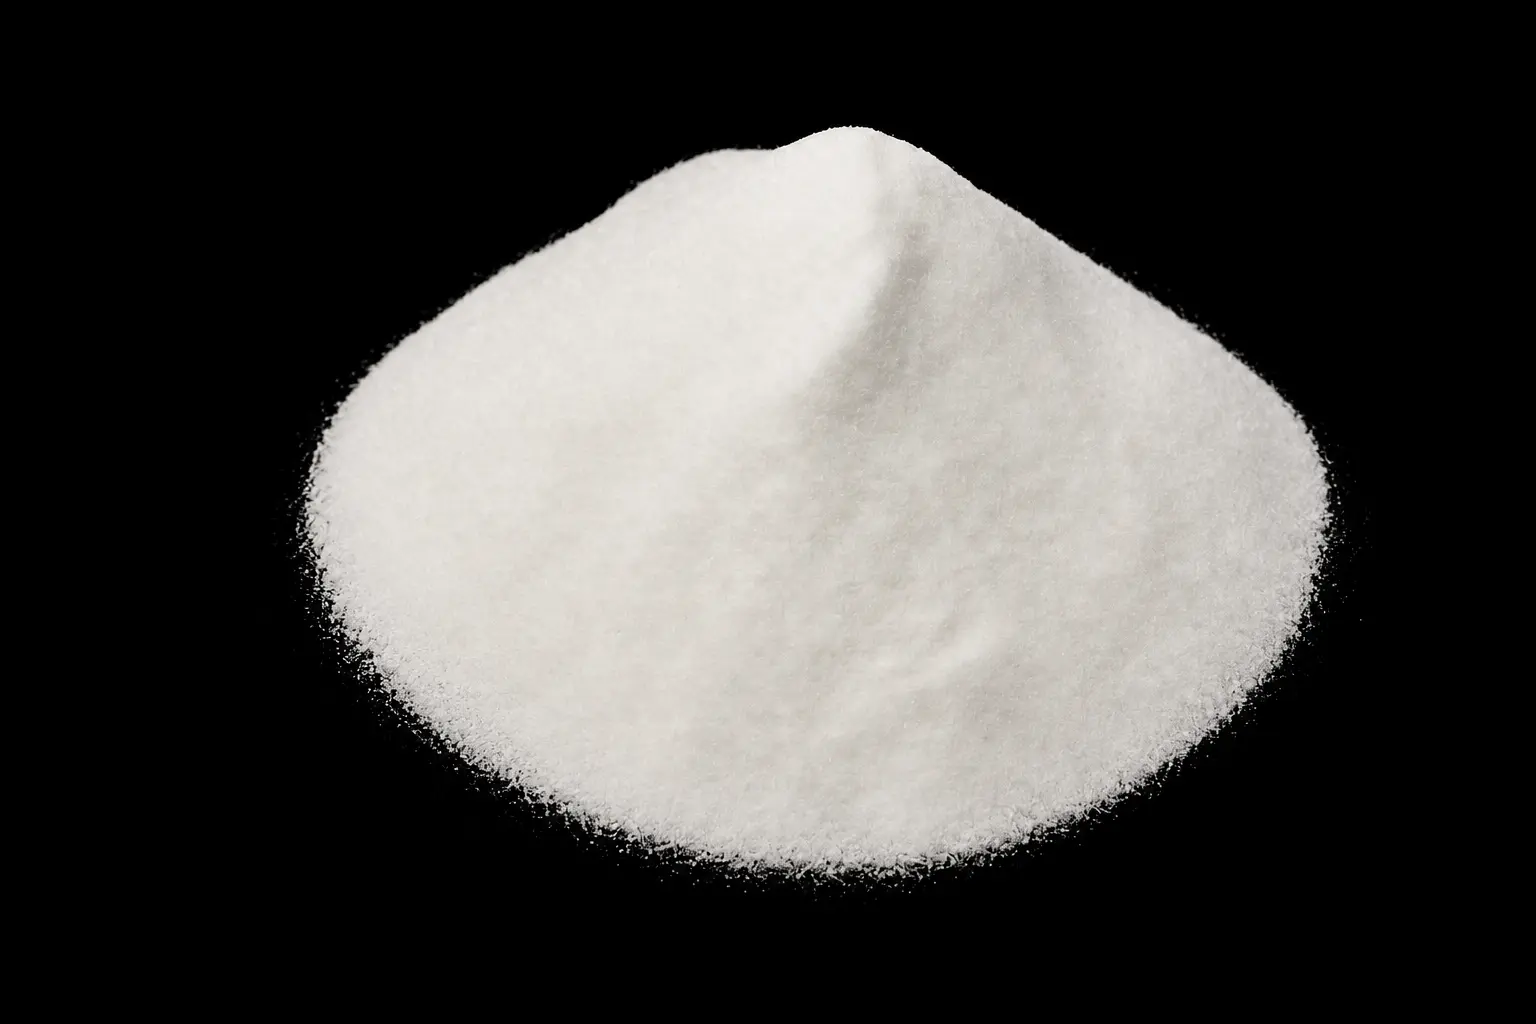
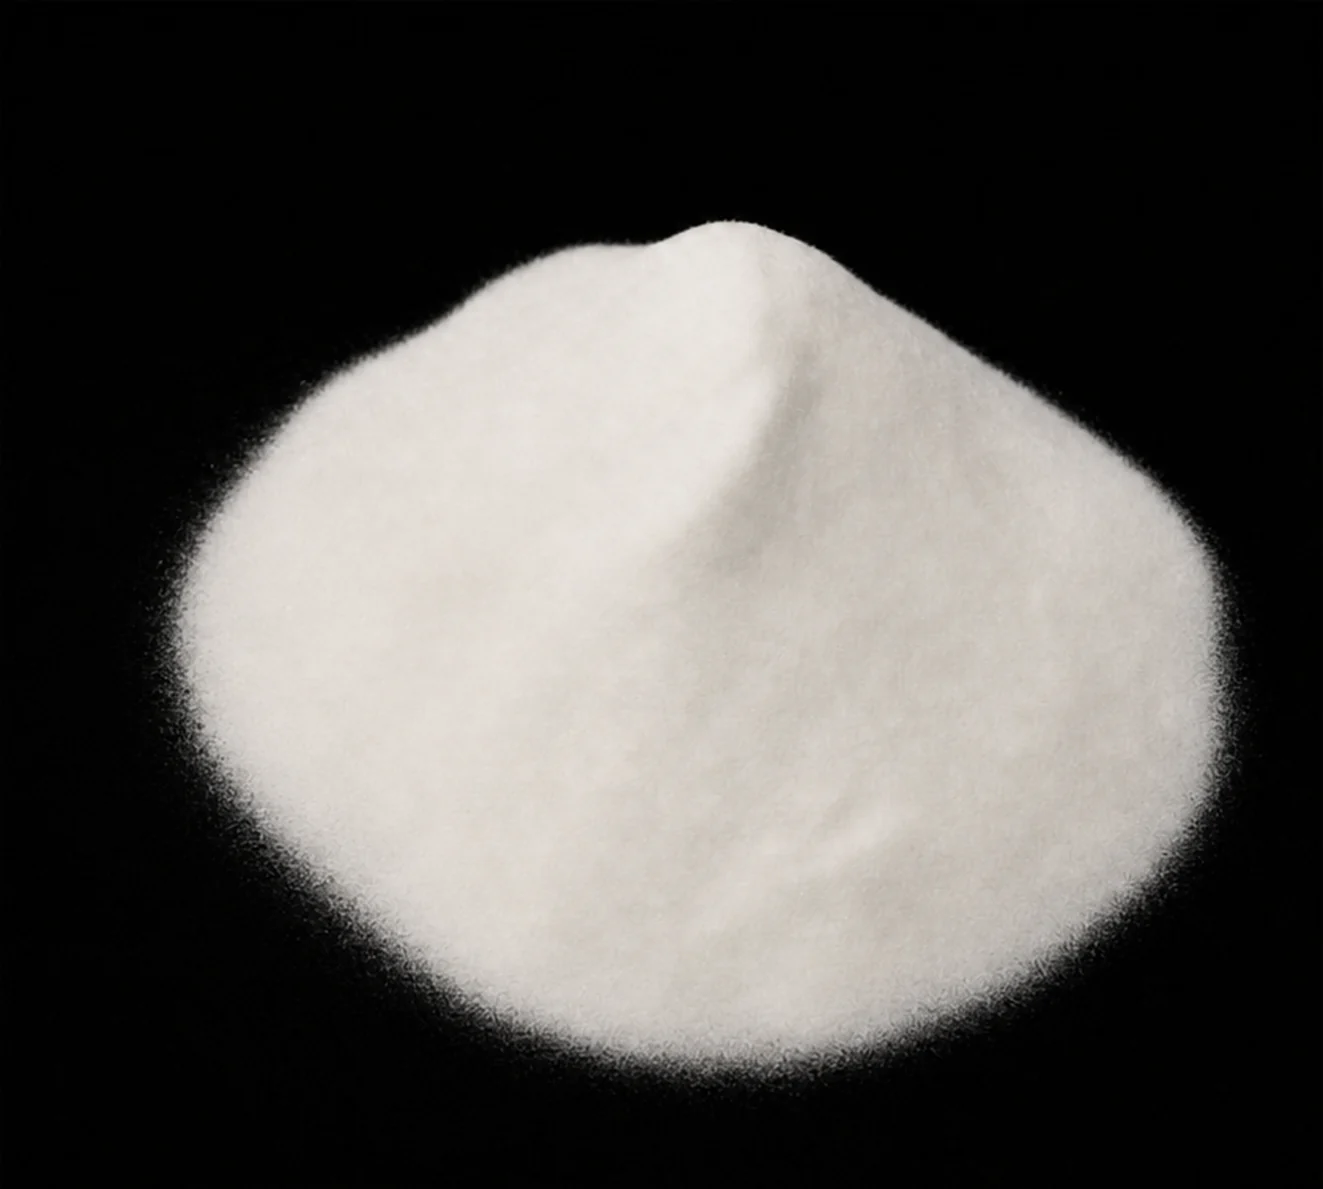
Use high-quality ytterbium granule image

diff --git a/products.html b/products.html
@@ -1014,7 +1014,7 @@
 
       <article class="catalog-card" data-line="PVD Coating Materials">
         <a class="catalog-image" href="products/ytterbium-metal-granule.html" aria-label="View Ytterbium Metal Granule">
-          <img src="assets/product-images/ytterbium-metal-granule.webp?v=20260720-sharp" alt="Ytterbium Metal Granule product image" loading="lazy" />
+          <img src="assets/product-images/ytterbium-metal-granule.webp?v=20260721-v3" alt="Ytterbium Metal Granule product image" loading="lazy" />
         </a>
         <div class="catalog-info">
           <span class="catalog-meta">PVD Coating Materials / Evaporation Materials</span>
@@ -1186,7 +1186,7 @@
 
       <article class="catalog-card" data-line="CVD Coating Materials">
         <a class="catalog-image" href="products/ultra-dry-anhydrous-terbium-chloride.html" aria-label="View Ultra-dry Anhydrous Terbium Chloride">
-          <img src="assets/product-images/ultra-dry-anhydrous-terbium-chloride.webp?v=20260720-edge" alt="Ultra-dry Anhydrous Terbium Chloride product image" loading="lazy" />
+          <img src="assets/product-images/ultra-dry-anhydrous-terbium-chloride.webp" alt="Ultra-dry Anhydrous Terbium Chloride product image" loading="lazy" />
         </a>
         <div class="catalog-info">
           <span class="catalog-meta">CVD Coating Materials / Ultra-dry Anhydrous Chlorides</span>

diff --git a/products/ultra-dry-anhydrous-terbium-chloride.html b/products/ultra-dry-anhydrous-terbium-chloride.html
@@ -35,7 +35,7 @@
 
   <section class="section detail-grid">
     <article class="detail-panel detail-media-panel">
-      <img src="../assets/product-images/ultra-dry-anhydrous-terbium-chloride.png?v=20260720-edge" alt="Ultra-dry Anhydrous Terbium Chloride product image" loading="lazy" />
+      <img src="../assets/product-images/ultra-dry-anhydrous-terbium-chloride.png" alt="Ultra-dry Anhydrous Terbium Chloride product image" loading="lazy" />
     </article>
     <article class="detail-panel">
       <h2>Specifications</h2>

diff --git a/products/ytterbium-metal-granule.html b/products/ytterbium-metal-granule.html
@@ -35,7 +35,7 @@
 
   <section class="section detail-grid">
     <article class="detail-panel detail-media-panel">
-      <img src="../assets/product-images/ytterbium-metal-granule.png?v=20260720-sharp" alt="Ytterbium Metal Granule product image" loading="lazy" />
+      <img src="../assets/product-images/ytterbium-metal-granule.webp?v=20260721-v3" alt="Ytterbium Metal Granule product image" loading="lazy" />
     </article>
     <article class="detail-panel">
       <h2>Specifications</h2>
